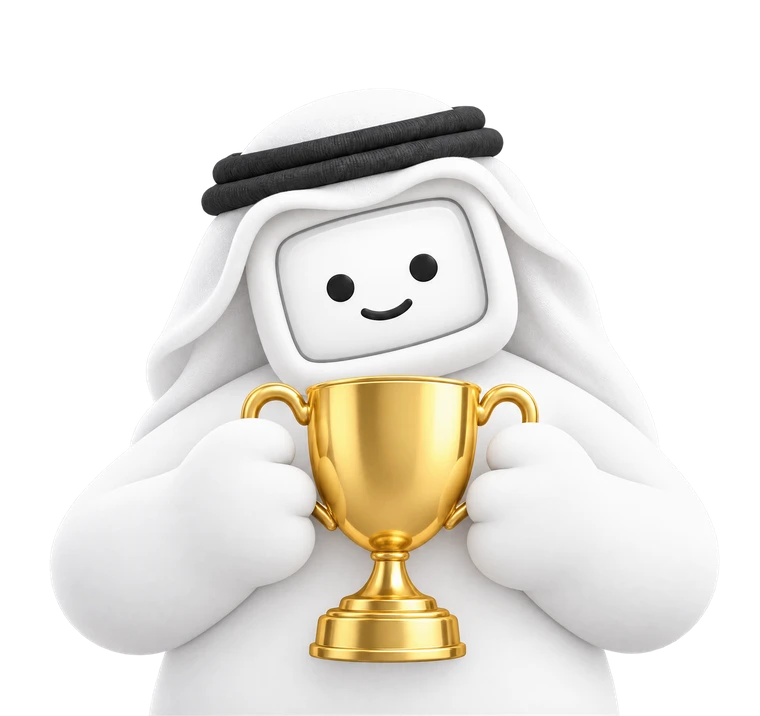
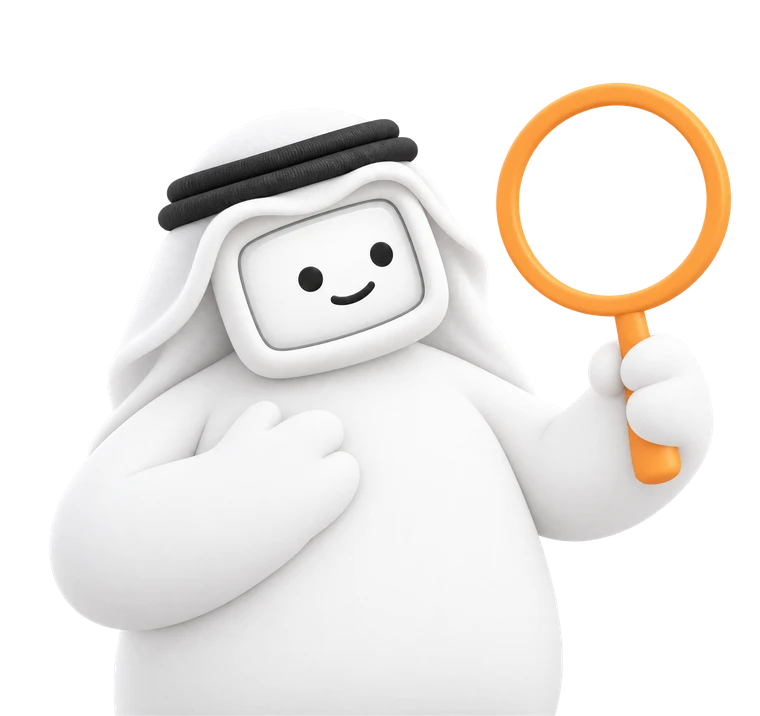
Services: ring-light shoot, magnifier on «متجرك», calmer ads, chat back
- Content: a ring light with a phone on a tripod on the left, the
  mascot on the right turned toward it holding a perfume, as if being
  filmed. The ring still flickers on when the card is reached and on
  hover. Two-line Gulf description: design, then posting.
- SEO: search bar with a minimal website below it; the mascot raises a
  magnifier and the word «متجرك» sits behind it, the letter under the
  lens drawn larger. The lens geometry is measured from the image and
  the word sizes in cqw, so it lines up at any card width.
- Ads: fewer details: where the budget goes (Snapchat 42%) and four
  bars with platform tiles.
- Reports: back to the earlier two-bubble design.
- Cards a little taller (5:7); the mascot no longer moves on hover.
- Replaced poses kept in art/unused/services-lively.

Claude-Session: https://claude.ai/code/session_01HEToeVJCXjzhD9Jpw8sRiS

Changed region(s): [[0.0605, 0.0922, 0.9684, 1.0], [0.3329, 0.1844, 0.3632, 0.2151]]

diff --git a/src/components/services/scenes.tsx b/src/components/services/scenes.tsx
@@ -37,10 +37,10 @@ const panel = "mx-auto rounded-2xl bg-[#1b1e25] text-white ring-1 ring-white/10 
 const VIOLET = "#8b6cff";
 const IDLE = "rgb(255 255 255 / 0.22)";
 const SPLIT = [
-  { L: Snapchat, to: 42, move: "up" },
+  { L: Snapchat, to: 42 },
   { L: TikTok, to: 28 },
   { L: Meta, to: 20 },
-  { L: Google, to: 10, move: "down" },
+  { L: Google, to: 10 },
 ];
 const TOP = 42;
 
@@ -48,35 +48,27 @@ export function BudgetScene({ play }: SceneProps) {
   const ref = useStory(play, (q) => {
     const tl = gsap.timeline({ defaults: { duration: 1.1, ease: "power3.inOut" } });
     SPLIT.forEach(({ to }, i) => {
-      tl.fromTo(q(`[data-bar="${i}"]`), { height: `${(25 / TOP) * 100}%` }, { height: `${(to / TOP) * 100}%` }, 0.35)
-        .fromTo(q(`[data-pct="${i}"]`), { innerText: 25 }, { innerText: to, snap: { innerText: 1 } }, 0.35);
+      tl.fromTo(q(`[data-bar="${i}"]`), { height: `${(25 / TOP) * 100}%` }, { height: `${(to / TOP) * 100}%` }, 0.35);
     });
     return tl
       .fromTo(q('[data-bar="0"]'), { backgroundColor: IDLE }, { backgroundColor: VIOLET, duration: 0.45 }, 0.95)
-      .fromTo(q("[data-arrow]"), { opacity: 0, y: 3 }, { opacity: 1, y: 0, duration: 0.3, stagger: 0.12, ease: "power2.out" }, 1.4);
+      .fromTo(q("[data-share]"), { innerText: 25 }, { innerText: TOP, snap: { innerText: 1 } }, 0.35);
   });
 
   return (
-    <div ref={ref} aria-hidden className={`${panel} w-[80%] px-3.5 pb-3 pt-3`}>
-      <div className="flex items-center justify-between">
-        <span className="text-[0.75rem] font-semibold">توزيع الميزانية</span>
-        <span className="text-[0.6875rem] text-white/45">اليوم</span>
-      </div>
-      <ul className="mt-2.5 grid grid-cols-4 gap-3">
-        {SPLIT.map(({ L, to, move }, i) => (
-          <li key={i} className="flex flex-col items-center gap-1">
-            <span className="flex items-center gap-0.5 text-[0.625rem] tabular-nums text-white/70">
-              {move && (
-                <svg data-arrow viewBox="0 0 10 10" className={`size-2 ${move === "up" ? "text-[#4ade80]" : "rotate-180 text-[#f87171]"}`}>
-                  <path d="M5 2 9 7H1z" fill="currentColor" />
-                </svg>
-              )}
-              <span data-pct={i}>{to}</span>٪
+    <div ref={ref} aria-hidden className={`${panel} w-[78%] px-4 pb-3.5 pt-3.5`}>
+      <p className="text-[0.6875rem] text-white/55">ميزانيتك رايحة لـ</p>
+      <p className="mt-0.5 flex items-center gap-1.5 text-[1.125rem] font-bold leading-none">
+        <Snapchat className="size-5 rounded-[5px]" />
+        سناب <span className="tabular-nums"><span data-share>{TOP}</span>٪</span>
+      </p>
+      <ul className="mt-3 grid grid-cols-4 items-end gap-2.5">
+        {SPLIT.map(({ L, to }, i) => (
+          <li key={i} className="flex flex-col items-center gap-1.5">
+            <span className="flex h-11 w-full items-end">
+              <span data-bar={i} className="w-full rounded-md" style={{ height: `${(to / TOP) * 100}%`, background: i === 0 ? VIOLET : IDLE }} />
             </span>
-            <span className="flex h-10 w-full items-end">
-              <span data-bar={i} className="w-full rounded-t-md" style={{ height: `${(to / TOP) * 100}%`, background: i === 0 ? VIOLET : IDLE }} />
-            </span>
-            <span className="mt-1 grid size-6 place-items-center rounded-md bg-white"><L className="size-4" /></span>
+            <span className="grid size-6 place-items-center rounded-md bg-white"><L className="size-4" /></span>
           </li>
         ))}
       </ul>
@@ -84,171 +76,135 @@ export function BudgetScene({ play }: SceneProps) {
   );
 }
 
-/* ─── المحتوى: الرينق لايت يولّع، الكاميرا تسجّل، وبعدها المقطع ينجدول ─── */
+/* ─── المحتوى: رينق لايت فيه جوال على حامل يسار، والشخصية يمين تعرض المنتج قدّامه ─── */
 
 export function StudioScene({ play }: SceneProps) {
-  const ref = useStory(play, (q) => {
-    const clock = q("[data-clock]")[0];
-    const t = { s: 0 };
-    return gsap.timeline()
-      // يولّع برمشة، مثل الحقيقي
-      .fromTo(q("[data-ring]"), { opacity: 0.12 }, { keyframes: [{ opacity: 0.75, duration: 0.07 }, { opacity: 0.3, duration: 0.1 }, { opacity: 1, duration: 0.35 }] }, 0.2)
-      .fromTo(q("[data-spill]"), { opacity: 0 }, { opacity: 1, duration: 0.6 }, 0.35)
-      // إطار الكاميرا يقفل على الشخصية
-      .fromTo(q("[data-corner]"), { scale: 1.15, opacity: 0 }, { scale: 1, opacity: 1, duration: 0.45, ease: "power3.out" }, 0.6)
-      .fromTo(q("[data-rec]"), { opacity: 0, y: -4 }, { opacity: 1, y: 0, duration: 0.3 }, 0.85)
-      .fromTo(t, { s: 0 }, { s: 12, duration: 1.6, ease: "none", onUpdate: () => { clock.textContent = `00:${String(Math.round(t.s)).padStart(2, "0")}`; } }, 0.9)
-      // خلص التصوير: التسجيل يصير موعد نشر
-      .to(q("[data-rec]"), { opacity: 0, y: -4, duration: 0.25 }, 2.7)
-      .fromTo(q("[data-sched]"), { opacity: 0, y: 4 }, { opacity: 1, y: 0, duration: 0.35, ease: "back.out(2)" }, 2.85);
-  });
+  const ref = useStory(play, (q) =>
+    gsap.timeline()
+      // يولّع ويطفي برمشة مثل الحقيقي، وبعدها يثبت
+      .fromTo(q("[data-ring]"), { opacity: 0.15 }, { keyframes: [{ opacity: 0.8, duration: 0.07 }, { opacity: 0.2, duration: 0.12 }, { opacity: 0.9, duration: 0.07 }, { opacity: 0.35, duration: 0.1 }, { opacity: 1, duration: 0.4 }] }, 0.25)
+      .fromTo(q("[data-beam]"), { opacity: 0 }, { opacity: 1, duration: 0.6 }, 0.75)
+      .fromTo(q("[data-rec]"), { opacity: 0 }, { opacity: 1, duration: 0.2 }, 1.05)
+  );
 
-  const corner = "absolute size-4 border-white/80";
   return (
     <div ref={ref} aria-hidden className="absolute inset-0">
-      {/* الرينق ورا راس الشخصية، وضوءه على الخلفية */}
-      <div data-spill className="absolute left-1/2 top-[71%] aspect-square w-[86%] -translate-x-1/2 -translate-y-1/2 rounded-full bg-[radial-gradient(closest-side,rgb(255_240_220/0.14),transparent)]" />
-      <div
-        data-ring
-        className="absolute left-1/2 top-[71%] aspect-square w-[56%] -translate-x-1/2 -translate-y-1/2 rounded-full border-[0.6rem] border-[#fff5e8] shadow-[0_0_24px_3px_rgb(255_236_210/0.5),inset_0_0_14px_rgb(255_236_210/0.4)]"
-      />
-      {/* إطار الكاميرا حول الشخصية */}
-      <div className="absolute inset-x-[9%] bottom-[5%] top-[31%]">
-        <span data-corner className={`${corner} right-0 top-0 rounded-tr-lg border-r-2 border-t-2`} />
-        <span data-corner className={`${corner} left-0 top-0 rounded-tl-lg border-l-2 border-t-2`} />
-        <span data-corner className={`${corner} bottom-0 right-0 rounded-br-lg border-b-2 border-r-2`} />
-        <span data-corner className={`${corner} bottom-0 left-0 rounded-bl-lg border-b-2 border-l-2`} />
-        <div className="absolute inset-x-0 -top-3.5 flex justify-center">
-          <span data-rec className="absolute flex items-center gap-1.5 rounded-full bg-black/55 px-2.5 py-1 text-[0.6875rem] font-medium text-white opacity-0 backdrop-blur-sm">
-            <span className="size-1.5 animate-pulse rounded-full bg-[#ef4444]" />
-            تسجيل <span data-clock dir="ltr" className="tabular-nums">00:12</span>
-          </span>
-          <span data-sched className="flex items-center gap-1.5 rounded-full bg-white px-2.5 py-1 text-[0.6875rem] font-semibold text-night">
-            <svg viewBox="0 0 16 16" className="size-3.5 text-[#e85aa6]" fill="none" stroke="currentColor" strokeWidth="1.6" strokeLinecap="round">
-              <rect x="2" y="3" width="12" height="11" rx="2.5" />
-              <path d="M2 6.5h12M5.5 1.5v3M10.5 1.5v3" />
-            </svg>
-            مجدول · الخميس 8 م
-          </span>
+      {/* الضوء من الرينق للشخصية */}
+      <div data-beam className="absolute inset-0 bg-[radial-gradient(52%_26%_at_40%_63%,rgb(255_240_220/0.12),transparent)]" />
+      {/* الحامل: عمود ورجول */}
+      <div className="absolute bottom-0 left-[22%] top-[62%] w-[3px] -translate-x-1/2 rounded-full bg-[#3a3f4b]" />
+      <svg viewBox="0 0 60 20" className="absolute bottom-0 left-[22%] w-[24%] -translate-x-1/2" fill="none" stroke="#3a3f4b" strokeWidth="3" strokeLinecap="round">
+        <path d="M30 2 8 20M30 2l22 18M30 2v18" />
+      </svg>
+      {/* الرينق مايل شوي ناحية الشخصية، وفي نصّه الجوال اللي يصوّر */}
+      <div className="absolute left-[22%] top-[62%] aspect-square w-[30%] [transform:translate(-50%,-50%)_perspective(400px)_rotateY(-28deg)]">
+        <div data-ring className="absolute inset-0 rounded-full border-[0.45rem] border-[#fff5e8] shadow-[0_0_22px_3px_rgb(255_236_210/0.5),inset_0_0_12px_rgb(255_236_210/0.4)]" />
+        <div className="absolute left-1/2 top-1/2 h-[46%] w-[26%] -translate-x-1/2 -translate-y-1/2 rounded-[5px] bg-[#0b0c10] ring-1 ring-white/25">
+          <span data-rec className="absolute right-1 top-1 size-1.5 animate-pulse rounded-full bg-[#ef4444]" />
         </div>
       </div>
     </div>
   );
 }
 
-/* ─── السيو: نكتب البحث، ومتجرك يطلع من تحت لين يصير الأول ─── */
+/* ─── السيو: خانة بحث وتحتها موقعك، والشخصية تكبّر «متجرك» بالعدسة ─── */
 
-const AMBER = "#ffa94d";
 const QUERY = "عباية سوداء";
+const WORD = "متجرك";
+
+/*
+ * العدسة في صورة الشخصية (seo.webp، 760×716): نصّها عند 80.66٪ من العرض و27.93٪ من الطول،
+ * ونصف قطرها من داخل 12.37٪ من العرض، ووسطها شفاف. نرسم الكلمة ورا الصورة، ونسخة مكبّرة منها
+ * داخل دائرة بحجم العدسة بالضبط، فتبان العدسة تكبّر الحرف اللي وراها (الكاف).
+ * الصندوق بنفس مقاس الصورة ومكانها في الكرت، فكل شي يمشي معها في أي عرض.
+ */
+const LENS = { x: "80.66%", y: "27.93%", r: "12.37%" };
 
 export function SearchScene({ play }: SceneProps) {
   const ref = useStory(play, (q) => {
     const typed = q("[data-query]")[0];
-    const [ours, ...others] = q("[data-row]");
-    const gap = parseFloat(getComputedStyle(ours.parentElement!).rowGap) || 0;
-    const below = others.reduce((h, r) => h + r.offsetHeight + gap, 0);
     const n = { i: 0 };
     return gsap.timeline()
       .fromTo(n, { i: 0 }, { i: QUERY.length, duration: 0.8, ease: "none", onUpdate: () => { typed.textContent = QUERY.slice(0, Math.round(n.i)); } }, 0.2)
-      .fromTo(q("[data-row]"), { opacity: 0 }, { opacity: 1, duration: 0.3, stagger: 0.06 }, 1.05)
-      // متجرك يبدأ آخر واحد، ويطلع فوقهم
-      .fromTo(ours, { y: below }, { y: 0, duration: 0.9, ease: "power3.inOut" }, 1.5)
-      .fromTo(others, { y: -(ours.offsetHeight + gap) }, { y: 0, duration: 0.9, ease: "power3.inOut" }, 1.5)
-      .fromTo(ours, { borderColor: "rgb(255 255 255 / 0.06)", backgroundColor: "rgb(255 255 255 / 0)" }, { borderColor: "rgb(255 169 77 / 0.6)", backgroundColor: "rgb(255 169 77 / 0.1)", duration: 0.4 }, 2.2)
-      .fromTo(q("[data-rank]"), { scale: 0 }, { scale: 1, duration: 0.4, ease: "back.out(2.5)" }, 2.3)
-      .fromTo(q("[data-star]"), { opacity: 0.2 }, { opacity: 1, duration: 0.15, stagger: 0.07 }, 2.45);
+      .fromTo(q("[data-site]"), { opacity: 0, y: 8 }, { opacity: 1, y: 0, duration: 0.4, ease: "power2.out" }, 1.05)
+      .fromTo(q("[data-word]"), { opacity: 0 }, { opacity: 1, duration: 0.4 }, 1.3)
+      // العدسة تكبّر الحرف
+      .fromTo(q("[data-zoom]"), { scale: 1 }, { scale: 1.7, duration: 0.7, ease: "back.out(1.7)" }, 1.6);
   });
 
-  const other = (w: string) => (
-    <li data-row className="flex items-center gap-2 rounded-xl border border-white/[0.06] px-2.5 py-2">
-      <span className="size-5 shrink-0 rounded-full bg-white/10" />
-      <span className="grid flex-1 gap-1.5">
-        <span className={`h-1.5 rounded-full bg-white/15 ${w}`} />
-        <span className="h-1.5 w-1/2 rounded-full bg-white/[0.08]" />
-      </span>
-    </li>
-  );
-
+  const word = "absolute left-[-0.27em] top-[-0.66em] whitespace-nowrap font-black leading-[1.2]";
   return (
-    <div ref={ref} aria-hidden className={`${panel} w-[86%] p-2.5`}>
-      <div className="flex h-7 items-center gap-2 rounded-full bg-white/[0.07] px-3">
-        <Google className="size-4 shrink-0" />
-        <span className="text-[0.75rem]">
-          <span data-query>{QUERY}</span>
-          <span className="ms-px inline-block h-3 w-px animate-pulse bg-white/70 align-middle" />
-        </span>
+    <div ref={ref} aria-hidden className="absolute inset-0">
+      <div className={`${panel} absolute inset-x-0 top-[21%] w-[86%] p-2.5`}>
+        <div className="flex h-7 items-center gap-2 rounded-full bg-white/[0.07] px-3">
+          <Google className="size-4 shrink-0" />
+          <span className="text-[0.75rem]">
+            <span data-query>{QUERY}</span>
+            <span className="ms-px inline-block h-3 w-px animate-pulse bg-white/70 align-middle" />
+          </span>
+        </div>
+        {/* موقعك: شريط المتصفح ومنتج */}
+        <div data-site className="mt-2 overflow-hidden rounded-xl bg-white/[0.04] ring-1 ring-white/10">
+          <div className="flex items-center gap-1 border-b border-white/[0.06] px-2.5 py-1.5">
+            {[0, 1, 2].map((d) => <span key={d} className="size-1.5 rounded-full bg-white/20" />)}
+            <span className="ms-2 h-1.5 w-1/3 rounded-full bg-white/10" />
+          </div>
+          <div className="flex items-center gap-2.5 p-2.5">
+            <span className="size-9 shrink-0 rounded-lg bg-[linear-gradient(135deg,#ffa94d,#ff6b6b)]" />
+            <span className="grid flex-1 gap-1.5">
+              <span className="h-1.5 w-3/4 rounded-full bg-white/25" />
+              <span className="text-[0.625rem] leading-none text-[#fbbf24]">★★★★★</span>
+            </span>
+          </div>
+        </div>
       </div>
-      <ul className="mt-2 grid gap-1.5">
-        <li data-row className="flex items-center gap-2 rounded-xl border px-2.5 py-2" style={{ borderColor: "rgb(255 169 77 / 0.6)", backgroundColor: "rgb(255 169 77 / 0.1)" }}>
-          <span data-rank className="grid size-5 shrink-0 place-items-center rounded-full text-[0.6875rem] font-bold text-[#3b2200]" style={{ background: AMBER }}>1</span>
-          <span className="min-w-0">
-            <span className="block truncate text-[0.75rem] font-semibold">متجرك · عباية سوداء كلوش</span>
-            <span className="flex items-center gap-1 text-[0.625rem] text-white/60">
-              <span className="flex text-[#fbbf24]">{[0, 1, 2, 3, 4].map((s) => <span key={s} data-star>★</span>)}</span>
-              4.9 · 189 ر.س
+
+      {/* نفس صندوق صورة الشخصية. الخط بوحدة cqw (من عرض الكرت) فيكبر ويصغر معها */}
+      <div className="absolute bottom-0 left-1/2 aspect-[760/716] w-[58%] -translate-x-1/2">
+        {/* الكلمة العادية، والكاف عند نص العدسة */}
+        <span className="absolute text-[10.5cqw]" style={{ left: LENS.x, top: LENS.y }}>
+          <span data-word className={`${word} text-white`}>{WORD}</span>
+        </span>
+        {/* داخل العدسة: لون زجاج يغطي الكلمة العادية، وفوقه الكلمة مكبّرة حول نص العدسة */}
+        <span
+          className="absolute aspect-square -translate-x-1/2 -translate-y-1/2 overflow-hidden rounded-full bg-[#1b1f28]"
+          style={{ left: LENS.x, top: LENS.y, width: `calc(${LENS.r} * 2)` }}
+        >
+          <span className="absolute left-1/2 top-1/2 text-[10.5cqw]">
+            <span data-zoom className="absolute left-0 top-0 block origin-top-left" style={{ transform: "scale(1.7)" }}>
+              <span className={`${word} text-white`}>{WORD}</span>
             </span>
           </span>
-        </li>
-        {other("w-3/4")}
-      </ul>
+        </span>
+      </div>
     </div>
   );
 }
 
-/* ─── التقارير: المستشار يكتب، يوصلك التقرير، وترد عليه ─── */
+/* ─── التقارير: رسالة التقرير من المستشار، وردّك عليه ─── */
 
 export function ChatScene({ play }: SceneProps) {
   const ref = useStory(play, (q) =>
     gsap.timeline()
-      .fromTo(q("[data-typing]"), { opacity: 0, scale: 0.8 }, { opacity: 1, scale: 1, duration: 0.25, transformOrigin: "100% 0" }, 0.2)
-      .fromTo(q("[data-dot]"), { y: 0 }, { y: -3, duration: 0.22, yoyo: true, repeat: 3, stagger: 0.1, ease: "sine.inOut" }, 0.35)
-      .to(q("[data-typing]"), { opacity: 0, duration: 0.15 }, 1.3)
-      .fromTo(q("[data-report]"), { opacity: 0, scale: 0.85 }, { opacity: 1, scale: 1, duration: 0.4, transformOrigin: "100% 0", ease: "back.out(1.6)" }, 1.35)
-      .fromTo(q("[data-col]"), { scaleY: 0 }, { scaleY: 1, duration: 0.4, stagger: 0.05, transformOrigin: "50% 100%", ease: "power2.out" }, 1.55)
-      .fromTo(q("[data-reply]"), { opacity: 0, y: 8 }, { opacity: 1, y: 0, duration: 0.35, ease: "power2.out" }, 2.4)
-      .fromTo(q("[data-ticks]"), { color: "rgb(255 255 255 / 0.45)" }, { color: "#53bdeb", duration: 0.25 }, 3)
+      .fromTo(q("[data-msg]"), { opacity: 0, y: 10, scale: 0.96 }, { opacity: 1, y: 0, scale: 1, duration: 0.45, stagger: 0.9, ease: "back.out(1.6)" }, 0.25)
   );
 
-  const cols = [30, 45, 38, 55, 48, 70, 100];
+  const bubble = "rounded-2xl px-3 shadow-[0_10px_28px_-10px_rgb(0_0_0/0.8)]";
   return (
-    <div ref={ref} aria-hidden className={`${panel} w-[86%] overflow-hidden !bg-[#0b141a]`}>
-      <div className="flex items-center gap-2 bg-[#202c33] px-3 py-1.5">
-        <span className="grid size-6 shrink-0 place-items-center overflow-hidden rounded-full bg-night-3">
-          <img src="/mascot-head.png" alt="" width={24} height={24} className="mt-1 size-5 object-contain" />
-        </span>
-        <span>
-          <span className="block text-[0.75rem] font-semibold leading-tight">مسوّقك الذكي</span>
-          <span className="block text-[0.625rem] leading-tight text-white/55">متصل</span>
-        </span>
+    <div ref={ref} aria-hidden className="mx-auto grid w-[84%] gap-1.5 text-white">
+      <div data-msg className={`${bubble} me-5 rounded-ss-md bg-[#202c33] py-2`}>
+        <p className="text-[0.6875rem] font-semibold text-[#53bdeb]">مسوّقك الذكي</p>
+        <p className="mt-0.5 text-[0.8125rem] font-semibold">تقرير الأسبوع</p>
+        <p className="flex items-end justify-between gap-2 text-[0.75rem] text-white/80">
+          الطلبات 42 · المبيعات +18٪
+          <span className="shrink-0 text-[0.5625rem] text-white/45">9:00 ص</span>
+        </p>
       </div>
-      <div className="relative grid gap-1.5 p-2">
-        {/* يكتب… */}
-        <span data-typing className="absolute right-2 top-2 flex gap-1 rounded-2xl rounded-se-md bg-[#202c33] px-3 py-2.5 opacity-0">
-          {[0, 1, 2].map((d) => <span key={d} data-dot className="size-1.5 rounded-full bg-white/60" />)}
-        </span>
-        <div data-report className="me-6 rounded-2xl rounded-se-md bg-[#202c33] px-2.5 py-1.5">
-          <p className="text-[0.75rem] font-semibold">تقرير الأسبوع</p>
-          <div className="mt-1 flex h-5 items-end gap-1">
-            {cols.map((h, i) => (
-              <span key={i} data-col className={`flex-1 rounded-sm ${i === cols.length - 1 ? "bg-[#25d366]" : "bg-white/20"}`} style={{ height: `${h}%` }} />
-            ))}
-          </div>
-          <p className="mt-1 flex items-end justify-between gap-2 text-[0.6875rem] text-white/80">
-            الطلبات 42 · المبيعات +18٪
-            <span className="shrink-0 text-[0.5625rem] text-white/45">9:00 ص</span>
-          </p>
-        </div>
-        <div data-reply className="ms-8 rounded-2xl rounded-ss-md bg-[#005c4b] px-2.5 py-1">
-          <p className="flex items-end justify-between gap-2 text-[0.6875rem]">
-            تمام، زيدوا ميزانية سناب
-            <span className="flex shrink-0 items-center gap-0.5 text-[0.5625rem] text-white/55">
-              9:04
-              <svg data-ticks viewBox="0 0 18 11" className="h-2.5 w-3.5 text-[#53bdeb]" fill="none" stroke="currentColor" strokeWidth="1.6" strokeLinecap="round" strokeLinejoin="round">
-                <path d="m1 6 3 3 6-7M7 8l1 1 6-7" />
-              </svg>
-            </span>
-          </p>
-        </div>
+      <div data-msg className={`${bubble} ms-8 rounded-se-md bg-[#005c4b] py-1.5`}>
+        <p className="flex items-end justify-between gap-2 text-[0.75rem]">
+          تمام، زيدوا ميزانية سناب
+          <span className="shrink-0 text-[0.5625rem] text-white/55">9:04 ص</span>
+        </p>
       </div>
     </div>
   );

diff --git a/src/components/services/Services.tsx b/src/components/services/Services.tsx
@@ -7,7 +7,7 @@ import { BudgetScene, ChatScene, SearchScene, StudioScene, type SceneProps } fro
 /*
  * كل خدمة كرت غامق واحد: العنوان ووصف بسطر يمين فوق، مشهد من منتجنا في النص، والشخصية تحت مقصوصة
  * عند الخصر على حافة الكرت. الكلمة المهمة في الوصف عليها قلم تظليل بلون الخدمة (.hl).
- *   backdrop: المشهد ورا الشخصية ويملا الكرت (الرينق لايت)، بدل ما يكون لوحة في النص
+ *   backdrop: المشهد ورا الشخصية ويملا الكرت (الرينق لايت، وعدسة السيو)، بدل ما يكون لوحة في النص
  */
 type Service = {
   title: string;
@@ -16,12 +16,21 @@ type Service = {
   Scene: ComponentType<SceneProps>;
   backdrop?: boolean;
   art: string;
+  artAt?: string; // مكان الشخصية بالعرض (الافتراضي في النص)
 };
 
 const SERVICES: Service[] = [
   { title: "الإعلانات الممولة", text: <>نطلقها ونحسّنها <mark className="hl">كل ربع ساعة</mark>.</>, hl: "rgb(124 92 255 / 0.55)", Scene: BudgetScene, art: "/services/ads.webp" },
-  { title: "محتوى حساباتك", text: <>نصمّمه وننشره <mark className="hl">بجدول ثابت</mark>.</>, hl: "rgb(232 90 166 / 0.5)", Scene: StudioScene, backdrop: true, art: "/services/content.webp" },
-  { title: "السيو", text: <>متجرك <mark className="hl">أول</mark> في قوقل والذكاء الاصطناعي.</>, hl: "rgb(255 169 77 / 0.5)", Scene: SearchScene, art: "/services/seo.webp" },
+  {
+    title: "محتوى حساباتك",
+    text: <><span className="block">نصمّم صور وفيديوهات منتجك،</span><span className="block">وننزّلها في حساباتك <mark className="hl">بجدول ثابت</mark>.</span></>,
+    hl: "rgb(232 90 166 / 0.5)",
+    Scene: StudioScene,
+    backdrop: true,
+    art: "/services/content.webp",
+    artAt: "left-[63%]",
+  },
+  { title: "السيو", text: <>متجرك <mark className="hl">أول</mark> في قوقل والذكاء الاصطناعي.</>, hl: "rgb(255 169 77 / 0.5)", Scene: SearchScene, backdrop: true, art: "/services/seo.webp" },
   { title: "التقارير والمستشار", text: <>تقريرك ومستشارك على <mark className="hl">واتساب</mark>.</>, hl: "rgb(59 143 230 / 0.6)", Scene: ChatScene, art: "/services/reports.webp" },
 ];
 
@@ -57,7 +66,7 @@ export function Services() {
   );
 }
 
-function ServiceCard({ title, text, hl, Scene, backdrop, art }: Service) {
+function ServiceCard({ title, text, hl, Scene, backdrop, art, artAt = "left-1/2" }: Service) {
   const ref = useRef<HTMLLIElement>(null);
   const [play, setPlay] = useState(0);
 
@@ -80,7 +89,7 @@ function ServiceCard({ title, text, hl, Scene, backdrop, art }: Service) {
       className="group w-[72vw] max-w-[20rem] shrink-0 snap-center sm:w-[44vw] lg:w-auto lg:max-w-none"
       style={{ "--hl": hl, "--hl-ink": "#fff" } as CSSProperties}
     >
-      <div className="relative aspect-[3/4] overflow-hidden rounded-[28px] bg-night shadow-[0_24px_48px_-26px_rgb(17_19_24/0.6)] transition-transform duration-500 ease-lift group-hover:-translate-y-1">
+      <div className="@container relative aspect-[5/7] overflow-hidden rounded-[28px] bg-night shadow-[0_24px_48px_-26px_rgb(17_19_24/0.6)] transition-transform duration-500 ease-lift group-hover:-translate-y-1">
         {backdrop && <Scene play={play} />}
         <div className="relative px-6 pt-6">
           <h3 className="text-[1.125rem] font-bold text-white">{title}</h3>
@@ -91,8 +100,8 @@ function ServiceCard({ title, text, hl, Scene, backdrop, art }: Service) {
             <Scene play={play} />
           </div>
         )}
-        {/* الشخصية تطلّ شوي لما تمرّ على الكرت */}
-        <img src={art} width={760} height={716} alt="" loading="lazy" decoding="async" draggable={false} className="pointer-events-none absolute bottom-0 left-1/2 w-[58%] max-w-none -translate-x-1/2 select-none transition-transform duration-500 ease-lift group-hover:-translate-y-2" />
+        {/* الشخصية ثابتة على حافة الكرت حتى وقت التحويم */}
+        <img src={art} width={760} height={716} alt="" loading="lazy" decoding="async" draggable={false} className={`pointer-events-none absolute bottom-0 w-[58%] max-w-none -translate-x-1/2 select-none ${artAt}`} />
       </div>
     </li>
   );
